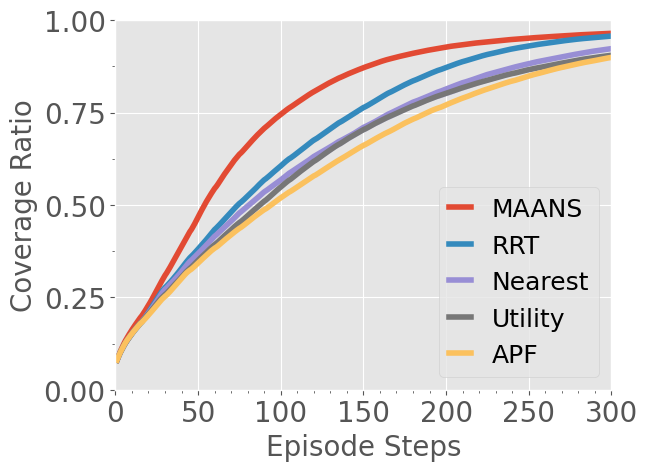
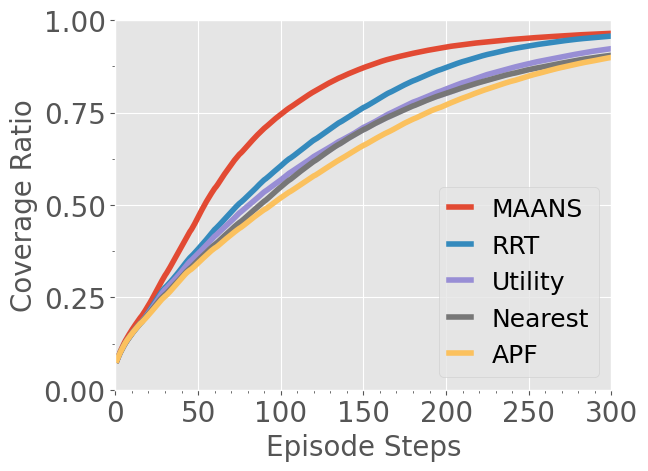
update

Changed region(s): [[0.7407, 0.5648, 0.9259, 0.6242], [0.7407, 0.6539, 0.9259, 0.7134]]

diff --git a/onpolicy/scripts/plot/plot_habitat_bar.py b/onpolicy/scripts/plot/plot_habitat_bar.py
@@ -11,10 +11,10 @@ from icecream import ic
 
 plt.style.use('ggplot')
 
-map_names = ['16','20','21','22','48','49','61','36','43']
-agent_names = ['3 Agents']
+map_names = ['16','20','21','22','36','43','48','49','61']
+agent_names = ['2 Agents','3 Agents']
 method_names = ['global_stack','rrt','utility','nearest','apf']
-label_names = ['MAANS','RRT','Nearest','Utility','APF']
+label_names = ['MAANS','RRT','Utility','Nearest','APF']
 color_names = ['limegreen', 'saddlebrown','purple','blue','red','gray']
 
 
@@ -90,13 +90,100 @@ tx = ax.xaxis.get_offset_text()
 tx.set_fontsize(18) 
 #ax.xaxis.grid(True, which='minor')
 # plt.xlim(0, final_max_step)
-plt.ylim([75, 145])
+plt.ylim([75, 150])
 plt.xticks((np.arange(len(agent_names)) + 1) * 3 + int(len(method_names)/2) * bar_width , agent_names)#rotation控制倾斜角度
 plt.xticks(fontsize=15)
 plt.yticks(fontsize=15)
 # plt.xlabel('Agents', fontsize=20)
 plt.ylabel('ACS', fontsize=15)
 # plt.title('Comparison of AUC on Middle Maps', fontsize=20)
-plt.legend(loc='best',bbox_to_anchor=(0.43, 0.5), numpoints=1, fancybox=True, fontsize=15, handlelength=0.8)
+plt.legend(loc='best',bbox_to_anchor=(0.4, 0.5), numpoints=1, fancybox=True, fontsize=15, handlelength=0.8)
 
 plt.savefig(save_dir + "bar_AUC.png", bbox_inches="tight")
+
+
+map_names = ['16','20','21','22','36','43','48','49','61']
+agent_names = ['2 Agents','3 Agents']
+
+save_dir = './habitat_overlap/'
+if not os.path.exists(save_dir):
+    os.makedirs(save_dir)
+
+plt.figure()
+
+bar_width = 0.45
+
+i = 0
+for method_name, label_name, color_name in zip(method_names, label_names, color_names):
+    print(method_name)
+    metric_agent = []
+    for agent_name in agent_names:
+        print(agent_name)
+        metric_map = []
+        for map_name in map_names:
+            print(map_name)
+            # data_dir =  save_dir + map_name + '/' + method_name + "/auc.csv'
+            if agent_name == "1 Agent":
+                data_dir =  './habitat/' + map_name + '/' + method_name + "/single_agent/auc/200step.csv"
+            if agent_name == "2 Agents":
+                data_dir =  './habitat/' + map_name + '/' + method_name + "/overlap/90ratio.csv"
+            if agent_name == "3 Agents":
+                data_dir =  './habitat_3agents/' + map_name + '/' + method_name + "/overlap/90ratio.csv"
+            df = pandas.read_csv(data_dir)
+            
+            key_cols = [c for c in df.columns if 'MIN' not in c and 'MAX' not in c]
+            
+            key_step = [n for n in key_cols if n == 'Step']
+            key_metric = [n for n in key_cols if n != 'Step']
+
+            x_step = np.array(df[key_step]).squeeze(-1)
+            metric = np.array(df[key_metric])
+            metric = np.mean(metric, axis=1)
+            print(metric.shape)
+
+            metric_map.append(metric)
+
+        # [map, episode] -- metric_map
+        
+        metric_map = np.array(metric_map)
+
+        # [episode]
+        metric_episode = np.mean(metric_map, axis=0)
+
+        metric_agent.append(metric_episode)
+    
+    mean_metric = np.mean(metric_agent, axis=1)
+
+    X = (np.arange(len(agent_names)) + 1) * 3
+    X_final = X + i * bar_width
+    plt.bar(X_final, mean_metric, alpha=0.8, width=bar_width, label=label_name, lw=1)
+    for x,y in zip(X_final, mean_metric):
+        plt.text(x, y+0.05, '%.2f' % y, ha='center', va= 'bottom',fontsize=15)
+
+    i += 1
+plt.tick_params(axis='both',which='major') 
+# final_max_step = 300
+# x_major_locator = MultipleLocator(50)
+# x_minor_Locator = MultipleLocator(10) 
+y_major_locator = MultipleLocator(10)
+y_minor_Locator = MultipleLocator(5)
+ax=plt.gca()
+# ax.xaxis.set_major_locator(x_major_locator)
+ax.yaxis.set_major_locator(y_major_locator)
+# ax.xaxis.set_minor_locator(x_minor_Locator)
+ax.yaxis.set_minor_locator(y_minor_Locator)
+# ax.xaxis.get_major_formatter().set_powerlimits((0,1))
+tx = ax.xaxis.get_offset_text() 
+tx.set_fontsize(18) 
+#ax.xaxis.grid(True, which='minor')
+# plt.xlim(0, final_max_step)
+plt.ylim([0, 1.0])
+plt.xticks((np.arange(len(agent_names)) + 1) * 3 + int(len(method_names)/2) * bar_width , agent_names)#rotation控制倾斜角度
+plt.xticks(fontsize=15)
+plt.yticks(fontsize=15)
+# plt.xlabel('Agents', fontsize=20)
+plt.ylabel('Overlap Ratio', fontsize=15)
+# plt.title('Comparison of AUC on Middle Maps', fontsize=20)
+plt.legend(loc='best',bbox_to_anchor=(0.4, 0.5), numpoints=1, fancybox=True, fontsize=15, handlelength=0.8)
+
+plt.savefig(save_dir + "bar_overlap.png", bbox_inches="tight")

diff --git a/onpolicy/scripts/plot/plot_habitat_auc.py b/onpolicy/scripts/plot/plot_habitat_auc.py
@@ -20,7 +20,7 @@ plt.style.use('ggplot')
 map_names = ['16','48','21','22','36','43','48','61','20','49']
 
 method_names = ['global_stack','rrt','utility','nearest','apf']
-label_names = ['MAANS','RRT','Nearest','Utility','APF']
+label_names = ['MAANS','RRT','Utility','Nearest','APF']
 color_names = ['limegreen', 'saddlebrown','purple','blue','red','gray']
 
 
@@ -91,3 +91,73 @@ plt.ylabel('Coverage Ratio', fontsize=20)
 plt.legend(loc='best', numpoints=1, fancybox=True, fontsize=18, handlelength=0.9)
 
 plt.savefig(save_dir + "AUC.png", bbox_inches="tight")
+
+
+map_names = ['16','48','22']
+save_dir = './habitat_3agents/'
+if not os.path.exists(save_dir):
+    os.makedirs(save_dir)
+
+plt.figure()
+
+for method_name, label_name, color_name in zip(method_names, label_names, color_names):
+    print(method_name)
+    metric_map = []
+    for map_name in map_names:
+        print(map_name)
+        data_dir =  save_dir + map_name + '/' + method_name + "/auc.csv"
+        # data_dir =  save_dir + map_name + '/' + method_name + "/auc/100step.csv"
+
+        df = pandas.read_csv(data_dir)
+        
+        key_cols = [c for c in df.columns if 'MIN' not in c and 'MAX' not in c]
+        
+        key_step = [n for n in key_cols if n == 'Step']
+        key_metric = [n for n in key_cols if n != 'Step']
+
+        x_step = np.array(df[key_step]).squeeze(-1)
+        metric = np.array(df[key_metric])
+        print(metric.shape)
+
+        metric_map.append(metric)
+
+    # [map, step, seed] -- metric_map
+    metric_map = np.array(metric_map)
+    # first map mean
+    y_seed = np.mean(metric_map, axis=0)
+
+    mean_seed = np.mean(y_seed, axis=1)
+    std_seed = np.std(y_seed, axis=1)
+
+    plt.plot(x_step, mean_seed, label = label_name, linewidth=4)#, color=color_name)
+    plt.fill_between(x_step,
+        mean_seed - std_seed,
+        mean_seed + std_seed,
+        color=color_name,
+        alpha=0.1)
+
+plt.tick_params(axis='both',which='major') 
+final_max_step = 240
+x_major_locator = MultipleLocator(50)
+x_minor_Locator = MultipleLocator(10) 
+y_major_locator = MultipleLocator(0.25)
+y_minor_Locator = MultipleLocator(0.125)
+ax=plt.gca()
+ax.xaxis.set_major_locator(x_major_locator)
+ax.yaxis.set_major_locator(y_major_locator)
+ax.xaxis.set_minor_locator(x_minor_Locator)
+ax.yaxis.set_minor_locator(y_minor_Locator)
+# ax.xaxis.get_major_formatter().set_powerlimits((0,1))
+tx = ax.xaxis.get_offset_text() 
+tx.set_fontsize(18) 
+#ax.xaxis.grid(True, which='minor')
+plt.xlim(0, final_max_step)
+plt.ylim([0, 1.0])
+plt.xticks(fontsize=20)
+plt.yticks(fontsize=20)
+plt.xlabel('Episode Steps', fontsize=20)
+plt.ylabel('Coverage Ratio', fontsize=20)
+# plt.title('Middle Maps', fontsize=20)
+plt.legend(loc='best', numpoints=1, fancybox=True, fontsize=18, handlelength=0.9)
+
+plt.savefig(save_dir + "AUC_3agents.png", bbox_inches="tight")

diff --git a/onpolicy/scripts/plot/plot_habitat_overlap.py b/onpolicy/scripts/plot/plot_habitat_overlap.py
@@ -10,9 +10,8 @@ from matplotlib.pyplot import MultipleLocator
 plt.style.use('ggplot')
 
 map_names = ['16','21','22','36','43','48','61','20','49']
-# large_map_names = ['20','49']
 method_names = ['global_stack','rrt','utility','nearest','apf']
-label_names = ['MAANS','RRT','Nearest','Utility','APF']
+label_names = ['MAANS','RRT','Utility','Nearest','APF']
 color_names = ['limegreen', 'saddlebrown','purple','blue','red','gray']
 metric_names = ['overlap']
 ratio_names = ['30ratio','50ratio','70ratio','90ratio']
@@ -100,12 +99,9 @@ plt.legend(loc='best', numpoints=1, fancybox=True, fontsize=18, handlelength=0.9
 plt.savefig(save_dir + "overlap.png", bbox_inches="tight")
 
 
-
-
-
-map_names = ['16','43','36']
+map_names = ['16','21','22','36','43','48','61','20','49']
 method_names = ['global_stack','rrt','utility','nearest','apf']
-label_names = ['MAANS','RRT','Nearest','Utility','APF']
+label_names = ['MAANS','RRT','Utility','Nearest','APF']
 color_names = ['limegreen', 'saddlebrown','purple','blue','red','gray']
 metric_names = ['overlap']
 ratio_names = ['30ratio','50ratio','70ratio','90ratio']
@@ -137,7 +133,6 @@ for metric_name in metric_names:
                     key_metric = [n for n in key_cols if n != 'Step']
 
                     # [episode, seed]
-                    print(key_metric)
                     metric = np.array(df[key_metric])
 
                     # [seed]

diff --git a/onpolicy/scripts/plot/cal_habitat_final.py b/onpolicy/scripts/plot/cal_habitat_final.py
@@ -14,7 +14,7 @@ def moving_average(interval, windowsize):
     return re
 
 
-map_names = ['16','21','22','36','43','48','61','20','49']
+map_names = ['16']
 train_method_names = ['nearest','apf','utility', 'rrt', 'global_stack']#,'distill']
 train_label_names = ['Nearest','APF','Utility', 'RRT', 'MAANS']#,'MAANS-TD']
 metric_names = ['auc','ratio','step','overlap']
